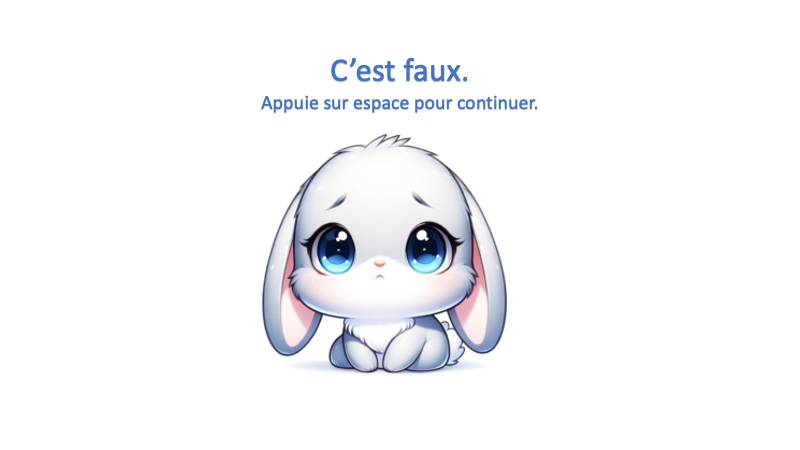
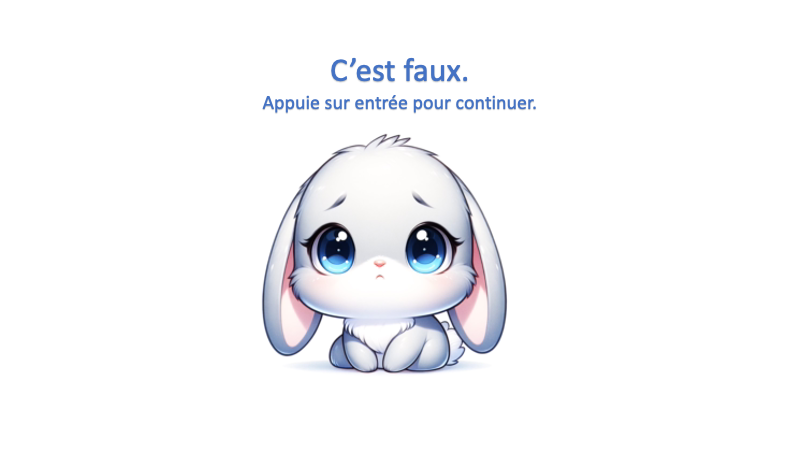
Use Enter Key to continue Space Key only for replay

Changed region(s): [[0.3125, 0.2178, 0.6875, 0.2489]]

diff --git a/tests/anisochrony_bunny.py b/tests/anisochrony_bunny.py
@@ -41,7 +41,7 @@ MAINFONT = None
 MAINFONTSIZE = 32
 SCREEN = None
 
-CONTINUE_KEY  = [ pygame.K_SPACE ]
+CONTINUE_KEY  = [ pygame.K_RETURN ]
 RESPONSE_KEYS = [ pygame.K_r, pygame.K_i ]
 REPLAY_KEY = [ pygame.K_SPACE ]
 
@@ -453,13 +453,13 @@ def show_instructions(block):
     print ("Showing instructions")
 
     if block in ["train"]:
-        txt = "Maintenant c'est vraiment toi le juge, donc écoute bien!\nAppuie sur espace pour continuer."
+        txt = "Maintenant c'est vraiment toi le juge, donc écoute bien!\nAppuie sur entrée pour continuer."
         text_screen(SCREEN, MAINFONT, txt, img = STORY.Img[STORY.Type=="Bloc"].iloc[0])
         pygame.display.flip()
         waitforkey(CONTINUE_KEY)
 
     if block in ["1","2","3"]:
-        txt = "Maintenant on commence une grande compétition.\n\nAppuie sur espace pour continuer."
+        txt = "Maintenant on commence une grande compétition.\n\nAppuie sur entrée pour continuer."
         text_screen(SCREEN,MAINFONT,txt, img = STORY.Img[STORY.Type=="Bloc"].iloc[0])
         pygame.display.flip()
         waitforkey(CONTINUE_KEY)

diff --git a/tests/pitch_lala.py b/tests/pitch_lala.py
@@ -41,7 +41,7 @@ MAINFONT = None
 MAINFONTSIZE = 32
 SCREEN = None
 
-CONTINUE_KEY  = [ pygame.K_SPACE ]
+CONTINUE_KEY  = [ pygame.K_RETURN ]
 RESPONSE_KEYS = [ pygame.K_r, pygame.K_i ]
 REPLAY_KEY = [ pygame.K_SPACE ]
 
@@ -453,13 +453,13 @@ def show_instructions(block):
     print ("Showing instructions")
 
     if block in ["train"]:
-        txt = "Maintenant c'est vraiment toi le juge, donc écoute bien!\nAppuie sur espace pour continuer."
+        txt = "Maintenant c'est vraiment toi le juge, donc écoute bien!\nAppuie sur entrée pour continuer."
         text_screen(SCREEN, MAINFONT, txt, img = STORY.Img[STORY.Type=="Bloc"].iloc[0])
         pygame.display.flip()
         waitforkey(CONTINUE_KEY)
 
     if block in ["1","2","3"]:
-        txt = "Maintenant on commence une grande compétition.\n\nAppuie sur espace pour continuer."
+        txt = "Maintenant on commence une grande compétition.\n\nAppuie sur entrée pour continuer."
         text_screen(SCREEN,MAINFONT,txt, img = STORY.Img[STORY.Type=="Bloc"].iloc[0])
         pygame.display.flip()
         waitforkey(CONTINUE_KEY)
